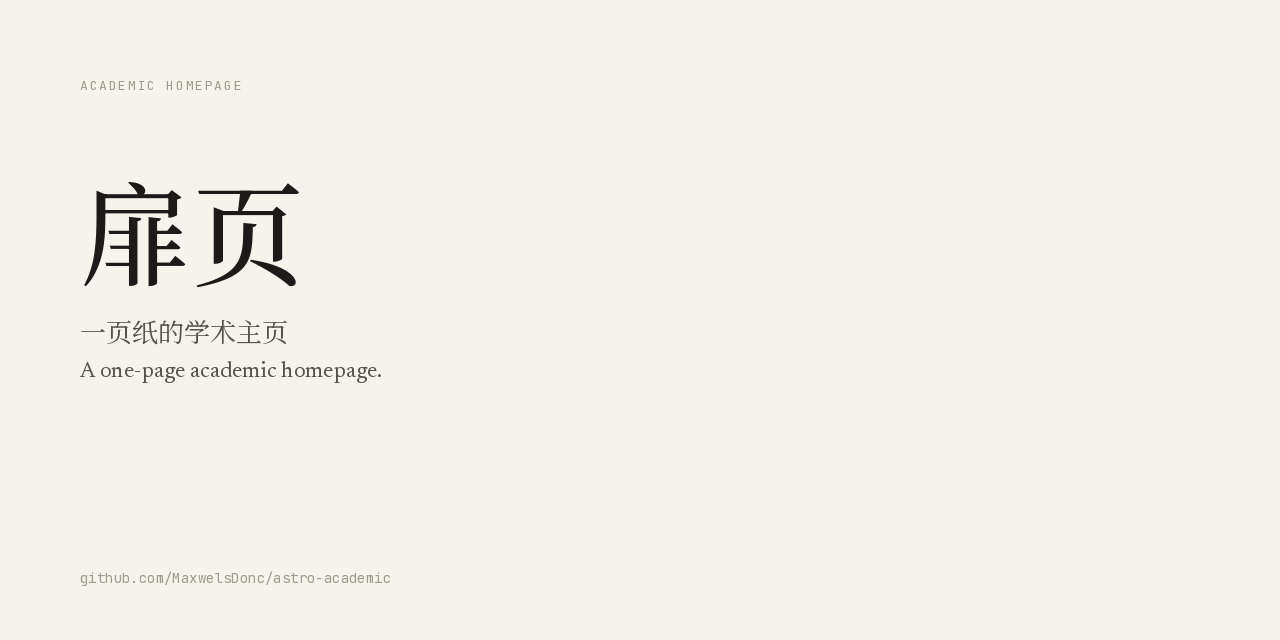
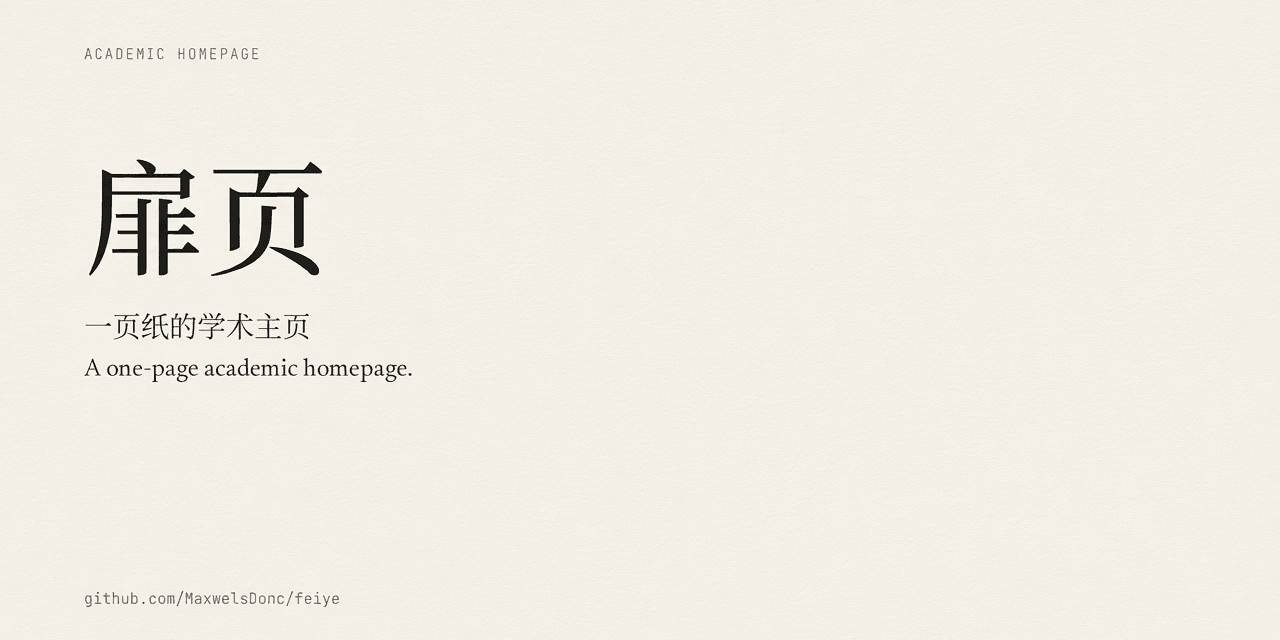
chore: rename project references to feiye
Point README, sample content, footer, and covers at MaxwelsDonc/feiye
to match the 扉页 brand. GitHub repository rename still needs Settings.

diff --git a/src/config.ts b/src/config.ts
@@ -23,7 +23,7 @@ export const author = {
   location: "Qinglan",
   email: "ye.fei@example.edu",
   /** Username, or owner/repo. The sample points at this template. */
-  github: "MaxwelsDonc/astro-academic",
+  github: "MaxwelsDonc/feiye",
   x: "",
   googleScholar: "",
   /** Scholar user id, the part before the colon in a paper id. */

diff --git a/README.en.md b/README.en.md
@@ -9,7 +9,7 @@ Serif for reading, monospace for dates and structure; warm ivory ground, no card
 <p align="center">
   <a href="https://zhouzenghui.site"><strong>Live demo → zhouzenghui.site</strong></a>
   &nbsp;·&nbsp;
-  <a href="https://github.com/MaxwelsDonc/astro-academic/generate"><strong>Use this template</strong></a>
+  <a href="https://github.com/MaxwelsDonc/feiye/generate"><strong>Use this template</strong></a>
 </p>
 
 <p align="center">
@@ -36,7 +36,7 @@ Serif for reading, monospace for dates and structure; warm ivory ground, no card
 
 ## Get started
 
-1. **[Use this template](https://github.com/MaxwelsDonc/astro-academic/generate)** → name the repo `your-username.github.io`
+1. **[Use this template](https://github.com/MaxwelsDonc/feiye/generate)** → name the repo `your-username.github.io`
 2. Edit **`src/config.ts`** (name, `site.url`, email) and **`astro.config.mjs`** `site` (same URL)
 3. Replace **`public/images/profile.jpg`** (the repo ships a 扉 mark, not a photo)
 4. Rewrite **`src/data/`** and **`intro.md`** (Ye Fei, Qinglan University, and the papers are fiction)

diff --git a/README.md b/README.md
@@ -9,7 +9,7 @@
 <p align="center">
   <a href="https://zhouzenghui.site"><strong>查看示例 → zhouzenghui.site</strong></a>
   &nbsp;·&nbsp;
-  <a href="https://github.com/MaxwelsDonc/astro-academic/generate"><strong>Use this template</strong></a>
+  <a href="https://github.com/MaxwelsDonc/feiye/generate"><strong>Use this template</strong></a>
 </p>
 
 <p align="center">
@@ -36,7 +36,7 @@
 
 ## 开始
 
-1. **[Use this template](https://github.com/MaxwelsDonc/astro-academic/generate)** → 新仓库命名为 `你的用户名.github.io`
+1. **[Use this template](https://github.com/MaxwelsDonc/feiye/generate)** → 新仓库命名为 `你的用户名.github.io`
 2. 编辑 **`src/config.ts`**（姓名、`site.url`、邮箱）与 **`astro.config.mjs`** 中的 `site`（同一网址）
 3. 替换 **`public/images/profile.jpg`**（仓库内为「扉」字占位，请换成你的照片）
 4. 改写 **`src/data/`** 与 **`intro.md`**（叶扉、青澜大学与示例论文均为虚构）

diff --git a/src/data/intro.md b/src/data/intro.md
@@ -1,3 +1,3 @@
 I study the moment a reader decides to continue: the length of a line, the weight of a name, the pause a margin leaves. I am a Ph.D. candidate at Qinglan University.
 
-Ye Fei and Qinglan University are fictional. This page ships with [扉页](https://github.com/MaxwelsDonc/astro-academic) as its sample. Replace the name in src/config.ts and the files in src/data, and the same page becomes your homepage.
+Ye Fei and Qinglan University are fictional. This page ships with [扉页](https://github.com/MaxwelsDonc/feiye) as its sample. Replace the name in src/config.ts and the files in src/data, and the same page becomes your homepage.

diff --git a/AGENTS.md b/AGENTS.md
@@ -2,7 +2,7 @@
 
 This is 扉页, an Astro 5 static site — a one-page academic homepage. Editorial minimalist design: warm paper background, serif typography, monospace metadata.
 
-The repository name stays `astro-academic`. The sample person (Ye Fei, Qinglan University) is fictional. Do not replace that sample with a real CV from another project.
+The repository name stays `feiye`. The sample person (Ye Fei, Qinglan University) is fictional. Do not replace that sample with a real CV from another project.
 
 ## Commands
 - `npm run dev` — start dev server at localhost:4321
